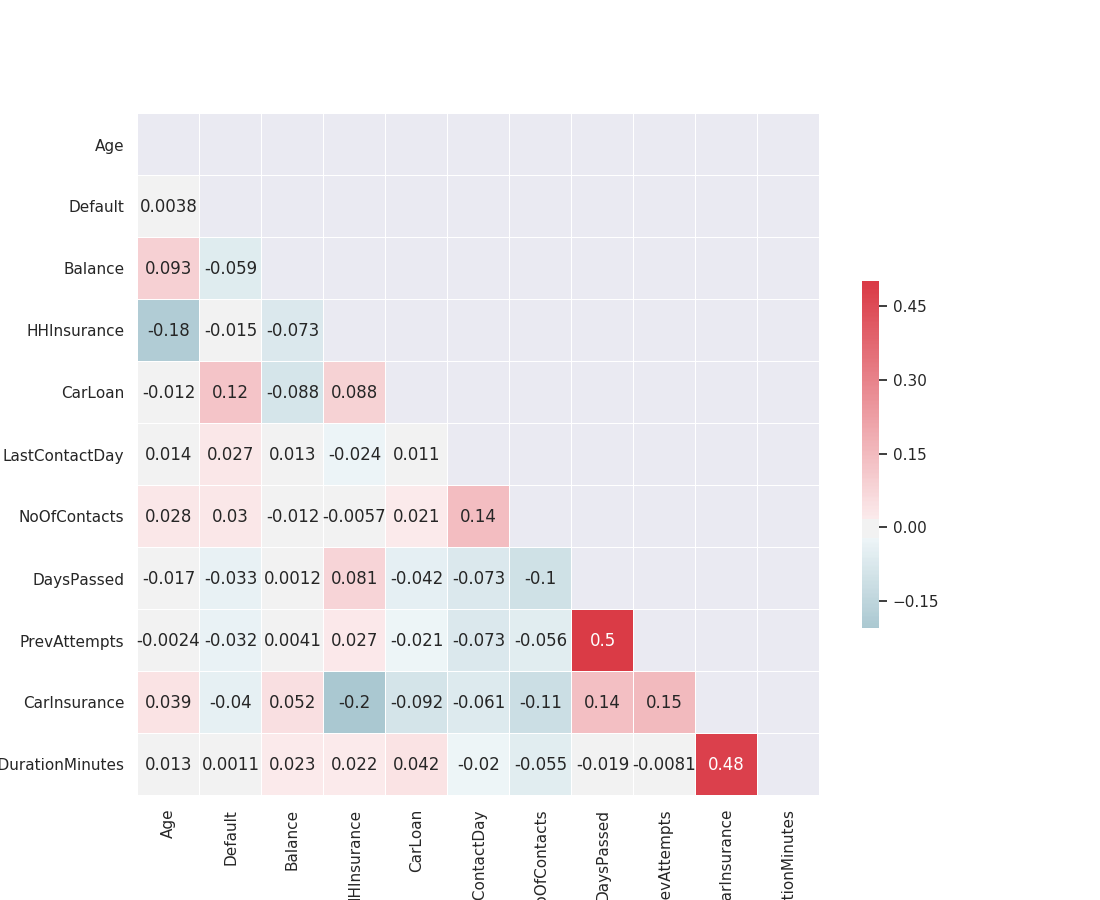
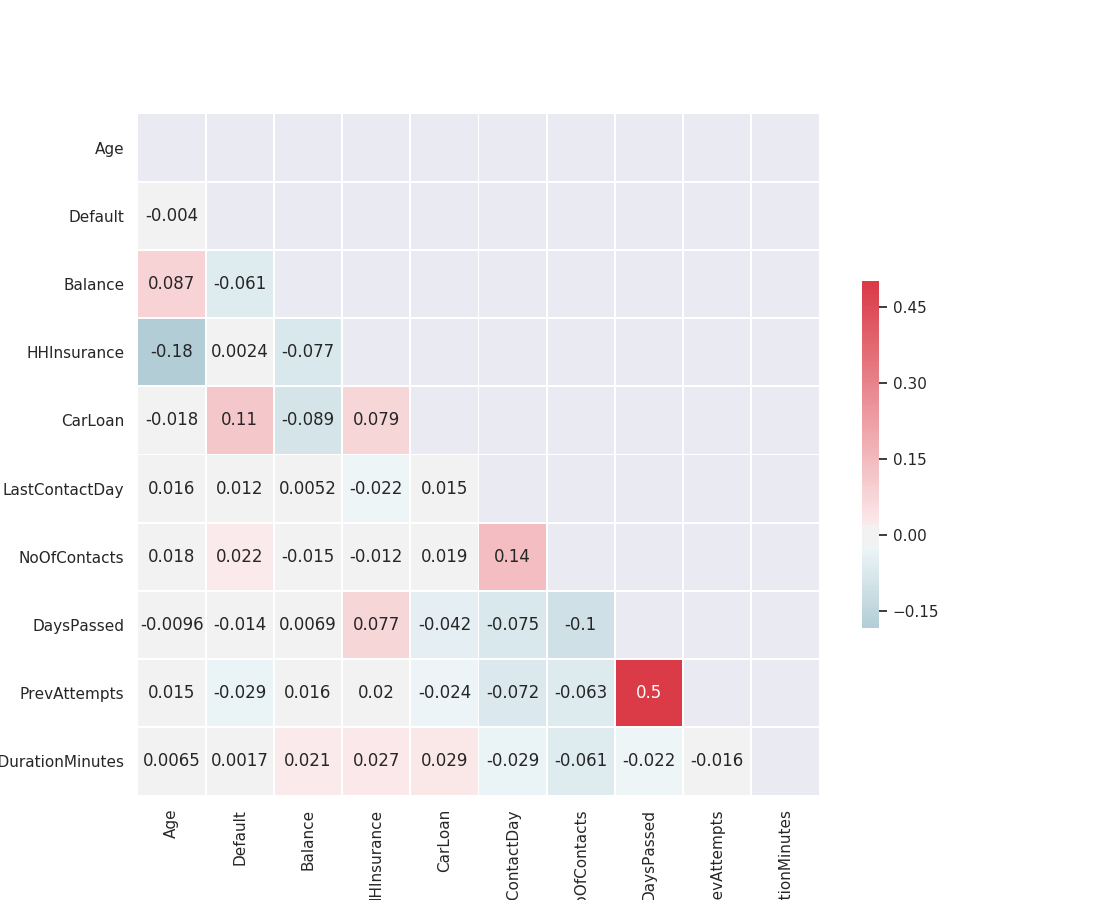
fixed visualizattions according to change in data

diff --git a/dataset.visualizations/carinsurance/visualization.py b/dataset.visualizations/carinsurance/visualization.py
@@ -5,14 +5,13 @@ import pandas as pd
 import numpy as np
 import matplotlib.pyplot as plt
 
-df = pd.read_csv("../../dataset.preprocessed/carinsurance/cleaned_train.csv", index_col=0)
-df = df.drop('Id', axis=1)
+df = pd.read_csv("../../dataset.preprocessed/carinsurance/cleaned.csv", index_col=0)
 
 g = sns.lmplot(x="NoOfContacts", y="LastContactDay", data=df)
 g.savefig('noofcontacts-lastcontactday.png')
 
-g = sns.catplot(x="CarInsurance", y="CallDurationMinutes", data=df)
-g.savefig('calldurationminutes-carinsurance.png')
+g = sns.catplot(x="CarLoan", y="Balance", data=df)
+g.savefig('carloan-balance.png')
 
 #df = df.drop('', axis=1)
 corr = df.corr()
